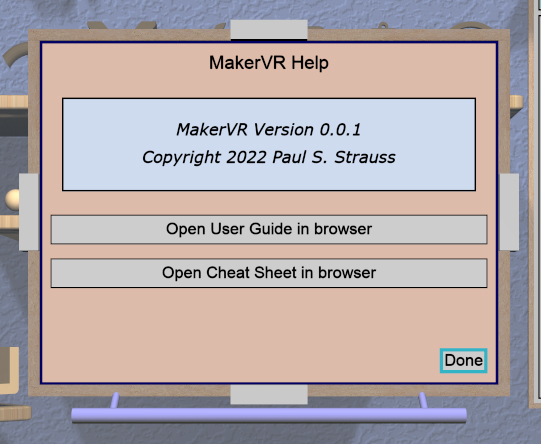
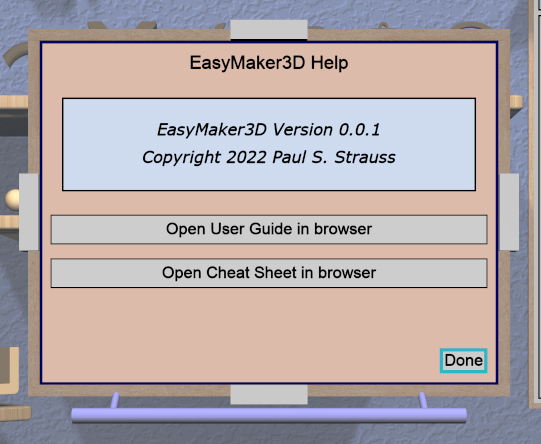
Finished renaming - everything seems to work OK now.

Changed region(s): [[0.2957, 0.2635, 0.7098, 0.3221], [0.3549, 0.1171, 0.6506, 0.1757]]

diff --git a/src/Apps/snapimage.cpp b/src/Apps/snapimage.cpp
@@ -464,7 +464,7 @@ bool SnapshotApp_::ProcessInstruction_(const SnapScript::Instr &instr) {
       }
       case SIType::kLoad: {
           const auto &linst = GetTypedInstr_<SnapScript::LoadInstr>(instr);
-          if (! LoadSession_(linst.file_name + TK::kSessionFileSuffix))
+          if (! LoadSession_(linst.file_name))
               return false;
           break;
       }
@@ -531,8 +531,8 @@ bool SnapshotApp_::LoadSession_(const std::string &file_name) {
         std::cout << "    Started new session\n";
     }
     else {
-        const FilePath path("PublicDoc/snaps/sessions/" + file_name);
-
+        const FilePath path("PublicDoc/snaps/sessions/" + file_name +
+                            TK::kSessionFileSuffix);
         std::string error;
         if (! test_context_.session_manager->LoadSession(path, error)) {
             std::cerr << "*** Error loading session from '"

diff --git a/src/Panels/Panel.cpp b/src/Panels/Panel.cpp
@@ -102,7 +102,7 @@ class Panel::Focuser_ {
     /// focus on it.
     void FocusFirstPane_();
 
-    /// Changes focus from #old_pane to #new_pane. Either may be null.
+    /// Changes focus from \c old_pane to \c new_pane. Either may be null.
     void ChangeFocus_(const PanePtr &old_pane, const PanePtr &new_pane);
 };
 

diff --git a/PublicDoc/docs/init.rst b/PublicDoc/docs/init.rst
@@ -78,4 +78,4 @@
 .. ----------------------------------------------------------------------------
 .. session-extension: Replaced with the session extension.
 
-.. |session-extension| replace:: ``.mvr``
+.. |session-extension| replace:: ``.ems``
